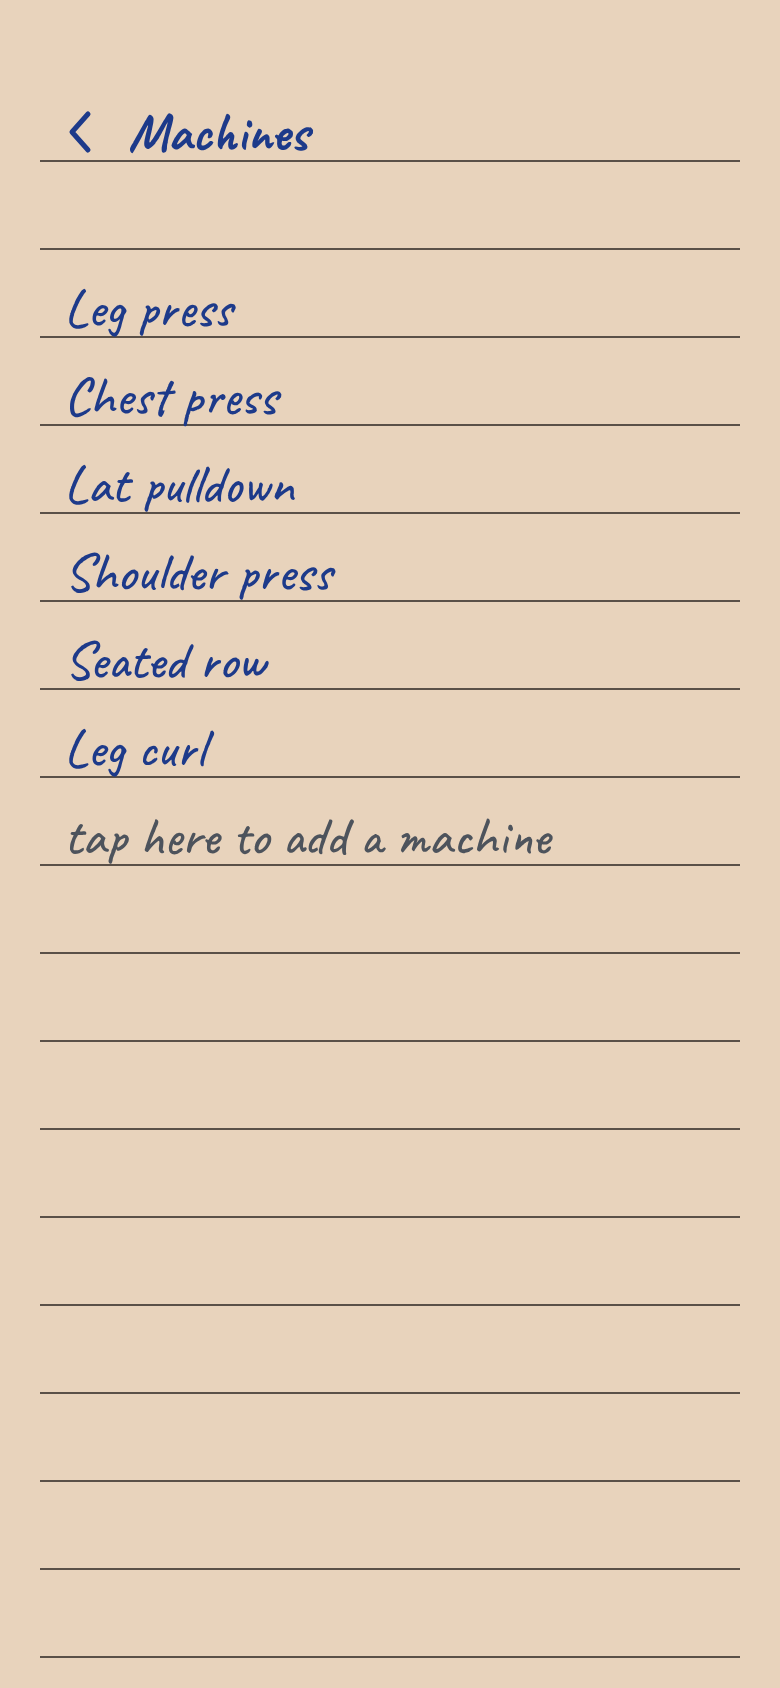
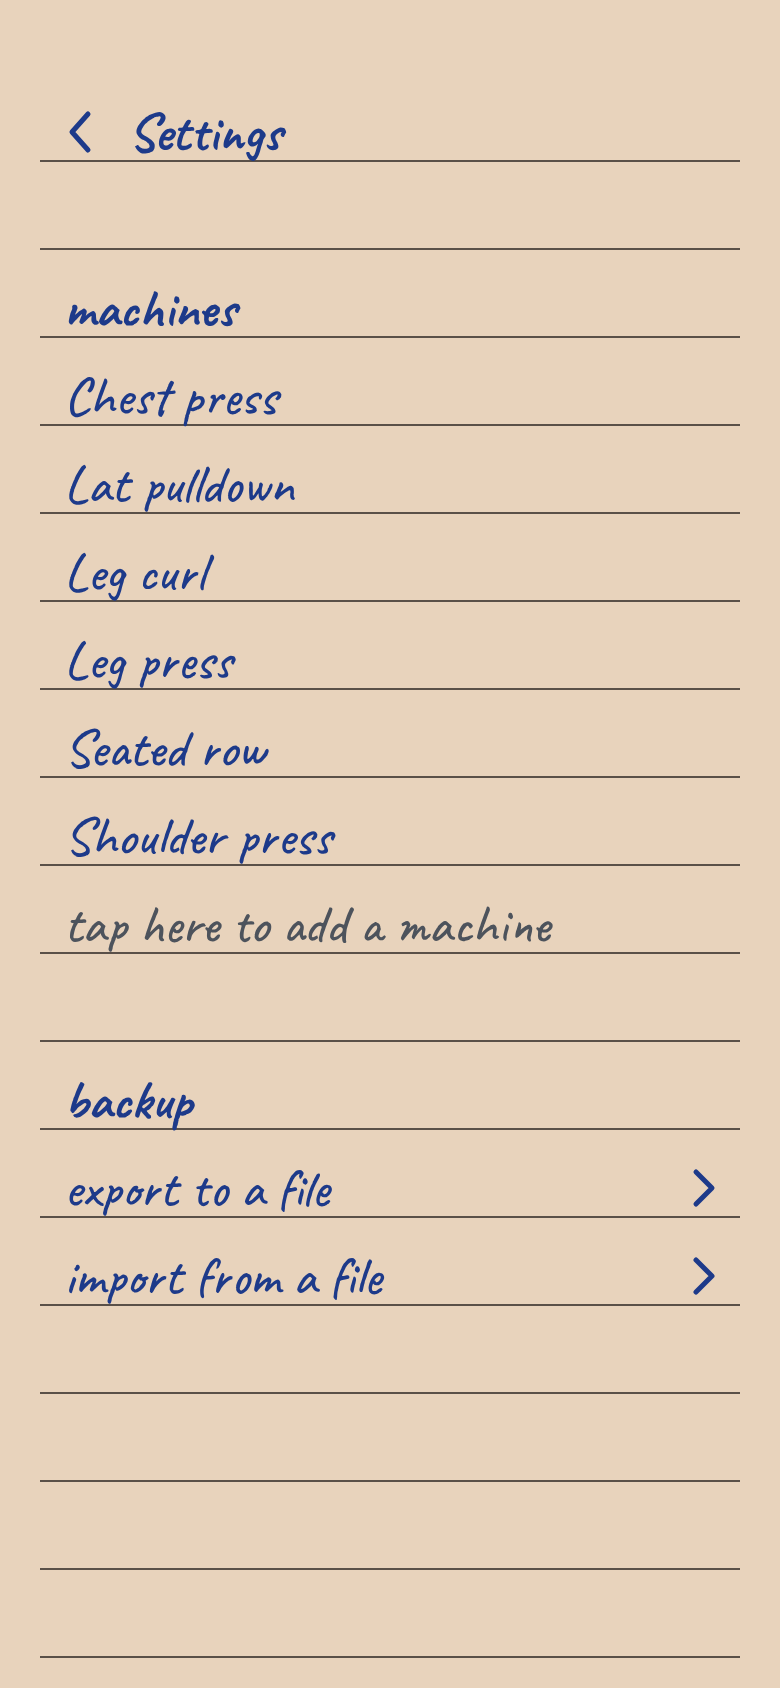
Update the design screens
Adds the export and import screens, the new Settings screen, and the
alphabetical machine order.

diff --git a/design/6-statistics-month.html b/design/6-statistics-month.html
@@ -27,12 +27,12 @@ body{margin:0}
 <div style="height: 44px; line-height: 44px; display: flex; align-items: baseline; gap: 14px"><span>sessions</span><svg width="62" height="26" viewBox="0 0 62 26" fill="none" stroke="currentColor" stroke-width="2.2" stroke-linecap="round" role="img" aria-label="tally of six"><path d="M4 3l-1 20M13 2l-1 21M22 3l0 20M31 2l-1 21M0 19L36 6M50 3l-1 20"></path></svg><span style="margin-left: auto">6</span></div>
 <div style="height: 44px; line-height: 44px; display: flex; align-items: baseline; gap: 14px"><span>weeks in a row</span><svg width="30" height="26" viewBox="0 0 30 26" fill="none" stroke="currentColor" stroke-width="2.2" stroke-linecap="round" role="img" aria-label="tally of three"><path d="M4 3l-1 20M13 2l-1 21M22 3l0 20"></path></svg><span style="margin-left: auto">3</span></div>
 <div style="height: 44px"></div>
-<a href="6-statistics-machine.html" style="height: 44px; line-height: 44px; display: flex; align-items: center; justify-content: space-between; color: #1d3a8a; text-decoration: none"><span>Leg press</span><svg width="12" height="22" viewBox="0 0 12 22" fill="none" stroke="currentColor" stroke-width="2.5" stroke-linecap="round" stroke-linejoin="round" aria-hidden="true"><path d="M2 3l8 8-8 8"></path></svg></a>
 <a href="6-statistics-machine.html" style="height: 44px; line-height: 44px; display: flex; align-items: center; justify-content: space-between; color: #1d3a8a; text-decoration: none"><span>Chest press</span><svg width="12" height="22" viewBox="0 0 12 22" fill="none" stroke="currentColor" stroke-width="2.5" stroke-linecap="round" stroke-linejoin="round" aria-hidden="true"><path d="M2 3l8 8-8 8"></path></svg></a>
 <a href="6-statistics-machine.html" style="height: 44px; line-height: 44px; display: flex; align-items: center; justify-content: space-between; color: #1d3a8a; text-decoration: none"><span>Lat pulldown</span><svg width="12" height="22" viewBox="0 0 12 22" fill="none" stroke="currentColor" stroke-width="2.5" stroke-linecap="round" stroke-linejoin="round" aria-hidden="true"><path d="M2 3l8 8-8 8"></path></svg></a>
-<a href="6-statistics-machine.html" style="height: 44px; line-height: 44px; display: flex; align-items: center; justify-content: space-between; color: #1d3a8a; text-decoration: none"><span>Shoulder press</span><svg width="12" height="22" viewBox="0 0 12 22" fill="none" stroke="currentColor" stroke-width="2.5" stroke-linecap="round" stroke-linejoin="round" aria-hidden="true"><path d="M2 3l8 8-8 8"></path></svg></a>
-<a href="6-statistics-machine.html" style="height: 44px; line-height: 44px; display: flex; align-items: center; justify-content: space-between; color: #1d3a8a; text-decoration: none"><span>Seated row</span><svg width="12" height="22" viewBox="0 0 12 22" fill="none" stroke="currentColor" stroke-width="2.5" stroke-linecap="round" stroke-linejoin="round" aria-hidden="true"><path d="M2 3l8 8-8 8"></path></svg></a>
 <a href="6-statistics-machine.html" style="height: 44px; line-height: 44px; display: flex; align-items: center; justify-content: space-between; color: #1d3a8a; text-decoration: none"><span>Leg curl</span><svg width="12" height="22" viewBox="0 0 12 22" fill="none" stroke="currentColor" stroke-width="2.5" stroke-linecap="round" stroke-linejoin="round" aria-hidden="true"><path d="M2 3l8 8-8 8"></path></svg></a>
+<a href="6-statistics-machine.html" style="height: 44px; line-height: 44px; display: flex; align-items: center; justify-content: space-between; color: #1d3a8a; text-decoration: none"><span>Leg press</span><svg width="12" height="22" viewBox="0 0 12 22" fill="none" stroke="currentColor" stroke-width="2.5" stroke-linecap="round" stroke-linejoin="round" aria-hidden="true"><path d="M2 3l8 8-8 8"></path></svg></a>
+<a href="6-statistics-machine.html" style="height: 44px; line-height: 44px; display: flex; align-items: center; justify-content: space-between; color: #1d3a8a; text-decoration: none"><span>Seated row</span><svg width="12" height="22" viewBox="0 0 12 22" fill="none" stroke="currentColor" stroke-width="2.5" stroke-linecap="round" stroke-linejoin="round" aria-hidden="true"><path d="M2 3l8 8-8 8"></path></svg></a>
+<a href="6-statistics-machine.html" style="height: 44px; line-height: 44px; display: flex; align-items: center; justify-content: space-between; color: #1d3a8a; text-decoration: none"><span>Shoulder press</span><svg width="12" height="22" viewBox="0 0 12 22" fill="none" stroke="currentColor" stroke-width="2.5" stroke-linecap="round" stroke-linejoin="round" aria-hidden="true"><path d="M2 3l8 8-8 8"></path></svg></a>
 </div>
 </div>
 </body>

diff --git a/design/5-settings-export.html b/design/5-settings-export.html
@@ -1,0 +1,37 @@
+<!doctype html>
+<html lang="en">
+<head>
+<meta charset="utf-8">
+<meta name="viewport" content="width=device-width, initial-scale=1">
+<title>Export: saved as a JSON file</title>
+<link href="https://fonts.googleapis.com/css2?family=Caveat:wght@500;700&display=swap" rel="stylesheet">
+<style>
+body{margin:0}
+</style>
+</head>
+<body>
+<div style="width: 390px; height: 844px; position: relative; overflow: hidden; box-sizing: border-box; background-color: #e8d3bc; font-family: 'Caveat', cursive; font-weight: 500; font-size: 27px; color: #1d3a8a">
+<div aria-hidden="true" style="position: absolute; left: 20px; right: 20px; top: 44px; bottom: 0; background-image: repeating-linear-gradient(to bottom, transparent 0, transparent 36px, #5a5048 36px, #5a5048 37px, transparent 37px, transparent 44px)"></div>
+<div style="position: absolute; top: 44px; left: 32px; right: 32px; display: flex; flex-direction: column">
+<div style="height: 44px; line-height: 44px; display: flex; align-items: center; gap: 2px; font-weight: 700">
+<a href="1-notebook-today.html" aria-label="Back to the notebook" style="margin-left: -14px; width: 44px; height: 44px; color: #1d3a8a; display: flex; align-items: center; justify-content: center"><svg width="14" height="24" viewBox="0 0 14 24" fill="none" stroke="currentColor" stroke-width="2.5" stroke-linecap="round" stroke-linejoin="round" aria-hidden="true"><path d="M11 3l-8 9 8 9"></path></svg></a>
+<span>Settings</span>
+</div>
+<div style="height: 44px"></div>
+<div style="height: 44px; line-height: 44px; font-weight: 700">machines</div>
+<div style="height: 44px; line-height: 44px">Chest press</div>
+<div style="height: 44px; line-height: 44px">Lat pulldown</div>
+<div style="height: 44px; line-height: 44px">Leg curl</div>
+<div style="height: 44px; line-height: 44px">Leg press</div>
+<div style="height: 44px; line-height: 44px">Seated row</div>
+<div style="height: 44px; line-height: 44px">Shoulder press</div>
+<div style="height: 44px; line-height: 44px; color: #4d535c">tap here to add a machine</div>
+<div style="height: 44px"></div>
+<div style="height: 44px; line-height: 44px; font-weight: 700">backup</div>
+<div style="height: 44px; line-height: 44px; display: flex; align-items: center; justify-content: space-between"><span>export to a file</span><svg width="12" height="22" viewBox="0 0 12 22" fill="none" stroke="currentColor" stroke-width="2.5" stroke-linecap="round" stroke-linejoin="round" aria-hidden="true"><path d="M2 3l8 8-8 8"></path></svg></div>
+<div style="height: 44px; line-height: 44px; display: flex; align-items: center; justify-content: space-between"><span>import from a file</span><svg width="12" height="22" viewBox="0 0 12 22" fill="none" stroke="currentColor" stroke-width="2.5" stroke-linecap="round" stroke-linejoin="round" aria-hidden="true"><path d="M2 3l8 8-8 8"></path></svg></div>
+</div>
+<div role="status" style="position: absolute; left: 50%; bottom: 24px; transform: translateX(-50%); box-sizing: border-box; height: 48px; padding: 0 18px; border-radius: 24px; background: #1c1c1e; color: #ffffff; display: flex; align-items: center; white-space: nowrap; font-family: -apple-system, 'Inter', sans-serif; font-size: 15px">Saved fitness-notebook-2026-11-19.json</div>
+</div>
+</body>
+</html>

diff --git a/design/5-settings-import.html b/design/5-settings-import.html
@@ -1,0 +1,40 @@
+<!doctype html>
+<html lang="en">
+<head>
+<meta charset="utf-8">
+<meta name="viewport" content="width=device-width, initial-scale=1">
+<title>Import: check the file, then replace</title>
+<link href="https://fonts.googleapis.com/css2?family=Caveat:wght@500;700&display=swap" rel="stylesheet">
+<style>
+body{margin:0}
+</style>
+</head>
+<body>
+<div style="width: 390px; height: 844px; position: relative; overflow: hidden; box-sizing: border-box; background-color: #e8d3bc; font-family: 'Caveat', cursive; font-weight: 500; font-size: 27px; color: #1d3a8a">
+<div aria-hidden="true" style="position: absolute; left: 20px; right: 20px; top: 44px; bottom: 0; background-image: repeating-linear-gradient(to bottom, transparent 0, transparent 36px, #5a5048 36px, #5a5048 37px, transparent 37px, transparent 44px)"></div>
+<div style="position: absolute; top: 44px; left: 32px; right: 32px; display: flex; flex-direction: column">
+<div style="height: 44px; line-height: 44px; display: flex; align-items: center; gap: 2px; font-weight: 700">
+<a href="1-notebook-today.html" aria-label="Back to the notebook" style="margin-left: -14px; width: 44px; height: 44px; color: #1d3a8a; display: flex; align-items: center; justify-content: center"><svg width="14" height="24" viewBox="0 0 14 24" fill="none" stroke="currentColor" stroke-width="2.5" stroke-linecap="round" stroke-linejoin="round" aria-hidden="true"><path d="M11 3l-8 9 8 9"></path></svg></a>
+<span>Settings</span>
+</div>
+<div style="height: 44px"></div>
+<div style="height: 44px; line-height: 44px; font-weight: 700">machines</div>
+<div style="height: 44px; line-height: 44px">Chest press</div>
+<div style="height: 44px; line-height: 44px">Lat pulldown</div>
+<div style="height: 44px; line-height: 44px">Leg curl</div>
+<div style="height: 44px; line-height: 44px">Leg press</div>
+<div style="height: 44px; line-height: 44px">Seated row</div>
+</div>
+<div style="position: absolute; left: 0; right: 0; bottom: 0; box-sizing: border-box; padding: 22px 16px 28px; background: #f6ecdf; border-radius: 20px 20px 0 0; display: flex; flex-direction: column; gap: 12px; font-family: -apple-system, 'Inter', sans-serif; color: #1c1c1e">
+<h2 style="margin: 0; padding: 0 8px; font-size: 17px; font-weight: 600; line-height: 22px; overflow-wrap: anywhere">fitness-notebook-2026-11-19.json</h2>
+<div style="padding: 0 8px; display: flex; flex-direction: column; gap: 4px; font-size: 15px; line-height: 22px; color: #56606e">
+<span>26 lines, from 07/11 to 19/11</span>
+<span>6 machines</span>
+</div>
+<p style="margin: 0; padding: 0 8px; font-size: 15px; line-height: 22px">This replaces the notebook and the machines on this phone.</p>
+<button type="button" style="width: 100%; height: 56px; border: 0; border-radius: 14px; background: #1d3a8a; color: #ffffff; font-family: -apple-system, 'Inter', sans-serif; font-weight: 600; font-size: 17px">Replace my notebook</button>
+<button type="button" style="width: 100%; height: 48px; border: 0; background: transparent; color: #1d3a8a; font-family: -apple-system, 'Inter', sans-serif; font-weight: 600; font-size: 17px">Cancel</button>
+</div>
+</div>
+</body>
+</html>

diff --git a/design/5-settings-machines.html b/design/5-settings-machines.html
@@ -3,7 +3,7 @@
 <head>
 <meta charset="utf-8">
 <meta name="viewport" content="width=device-width, initial-scale=1">
-<title>Machines list, cog icon</title>
+<title>Settings: machines and backup</title>
 <link href="https://fonts.googleapis.com/css2?family=Caveat:wght@500;700&display=swap" rel="stylesheet">
 <style>
 body{margin:0}
@@ -15,16 +15,21 @@ body{margin:0}
 <div style="position: absolute; top: 44px; left: 32px; right: 32px; display: flex; flex-direction: column">
 <div style="height: 44px; line-height: 44px; display: flex; align-items: center; gap: 2px; font-weight: 700">
 <a href="1-notebook-today.html" aria-label="Back to the notebook" style="margin-left: -14px; width: 44px; height: 44px; color: #1d3a8a; display: flex; align-items: center; justify-content: center"><svg width="14" height="24" viewBox="0 0 14 24" fill="none" stroke="currentColor" stroke-width="2.5" stroke-linecap="round" stroke-linejoin="round" aria-hidden="true"><path d="M11 3l-8 9 8 9"></path></svg></a>
-<span>Machines</span>
+<span>Settings</span>
 </div>
 <div style="height: 44px"></div>
-<div style="height: 44px; line-height: 44px">Leg press</div>
+<div style="height: 44px; line-height: 44px; font-weight: 700">machines</div>
 <div style="height: 44px; line-height: 44px">Chest press</div>
 <div style="height: 44px; line-height: 44px">Lat pulldown</div>
-<div style="height: 44px; line-height: 44px">Shoulder press</div>
-<div style="height: 44px; line-height: 44px">Seated row</div>
 <div style="height: 44px; line-height: 44px">Leg curl</div>
+<div style="height: 44px; line-height: 44px">Leg press</div>
+<div style="height: 44px; line-height: 44px">Seated row</div>
+<div style="height: 44px; line-height: 44px">Shoulder press</div>
 <div style="height: 44px; line-height: 44px; color: #4d535c">tap here to add a machine</div>
+<div style="height: 44px"></div>
+<div style="height: 44px; line-height: 44px; font-weight: 700">backup</div>
+<a href="5-settings-export.html" style="height: 44px; line-height: 44px; display: flex; align-items: center; justify-content: space-between; color: #1d3a8a; text-decoration: none"><span>export to a file</span><svg width="12" height="22" viewBox="0 0 12 22" fill="none" stroke="currentColor" stroke-width="2.5" stroke-linecap="round" stroke-linejoin="round" aria-hidden="true"><path d="M2 3l8 8-8 8"></path></svg></a>
+<a href="5-settings-import.html" style="height: 44px; line-height: 44px; display: flex; align-items: center; justify-content: space-between; color: #1d3a8a; text-decoration: none"><span>import from a file</span><svg width="12" height="22" viewBox="0 0 12 22" fill="none" stroke="currentColor" stroke-width="2.5" stroke-linecap="round" stroke-linejoin="round" aria-hidden="true"><path d="M2 3l8 8-8 8"></path></svg></a>
 </div>
 </div>
 </body>

diff --git a/design/2-add-line.html b/design/2-add-line.html
@@ -32,10 +32,10 @@ body{margin:0}
 <div style="position: relative; display: flex; gap: 6px; padding: 0 12px">
 <div style="flex: 1 1 0; min-width: 0; display: flex; flex-direction: column; white-space: nowrap">
 <span style="height: 36px"></span>
-<span style="height: 36px; line-height: 36px; font-size: 17px; color: #56606e">Leg press</span>
+<span style="height: 36px"></span>
 <span style="height: 36px; line-height: 36px; font-size: 19px; font-weight: 600">Chest press</span>
 <span style="height: 36px; line-height: 36px; font-size: 17px; color: #56606e">Lat pulldown</span>
-<span style="height: 36px; line-height: 36px; font-size: 15px; color: #56606e">Shoulder press</span>
+<span style="height: 36px; line-height: 36px; font-size: 15px; color: #56606e">Leg curl</span>
 </div>
 <div style="width: 56px; display: flex; flex-direction: column; text-align: center">
 <span style="height: 36px; line-height: 36px; font-size: 15px; color: #56606e">30</span>

diff --git a/design/README.md b/design/README.md
@@ -17,13 +17,15 @@ The numbers and dates on the screens are examples.
 | 2. Add a line | Typing your own line | [png](2-add-line-typing.png) | [html](2-add-line-typing.html) |
 | 3. Start a new date | Tap below the add line, pick the date | [png](3-new-date.png) | [html](3-new-date.html) |
 | 4. Remove a line | Drag left to delete | [png](4-remove-line.png) | [html](4-remove-line.html) |
-| 5. Settings | Machines list, cog icon | [png](5-settings-machines.png) | [html](5-settings-machines.html) |
+| 5. Settings | Machines and backup, cog icon | [png](5-settings-machines.png) | [html](5-settings-machines.html) |
+| 5. Settings | Export: saved as a JSON file | [png](5-settings-export.png) | [html](5-settings-export.html) |
+| 5. Settings | Import: check the file, then replace | [png](5-settings-import.png) | [html](5-settings-import.html) |
 | 6. Statistics | This month, chart icon | [png](6-statistics-month.png) | [html](6-statistics-month.html) |
 | 6. Statistics | One machine over time | [png](6-statistics-machine.png) | [html](6-statistics-machine.html) |
 
 ## What is built
 
-Groups 1 to 5 are built in [`../index.html`](../index.html). Group 6, statistics, is design only so far.
+All six groups are built in [`../index.html`](../index.html).
 
 ## Look
 
